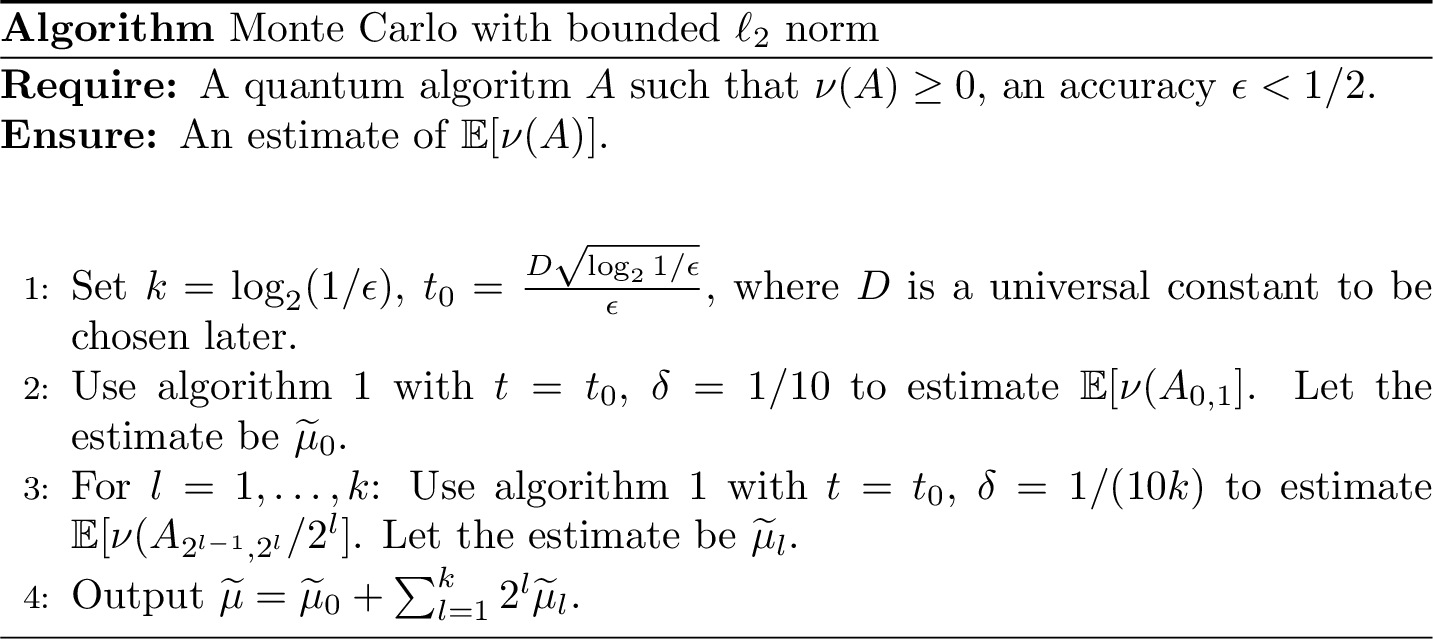
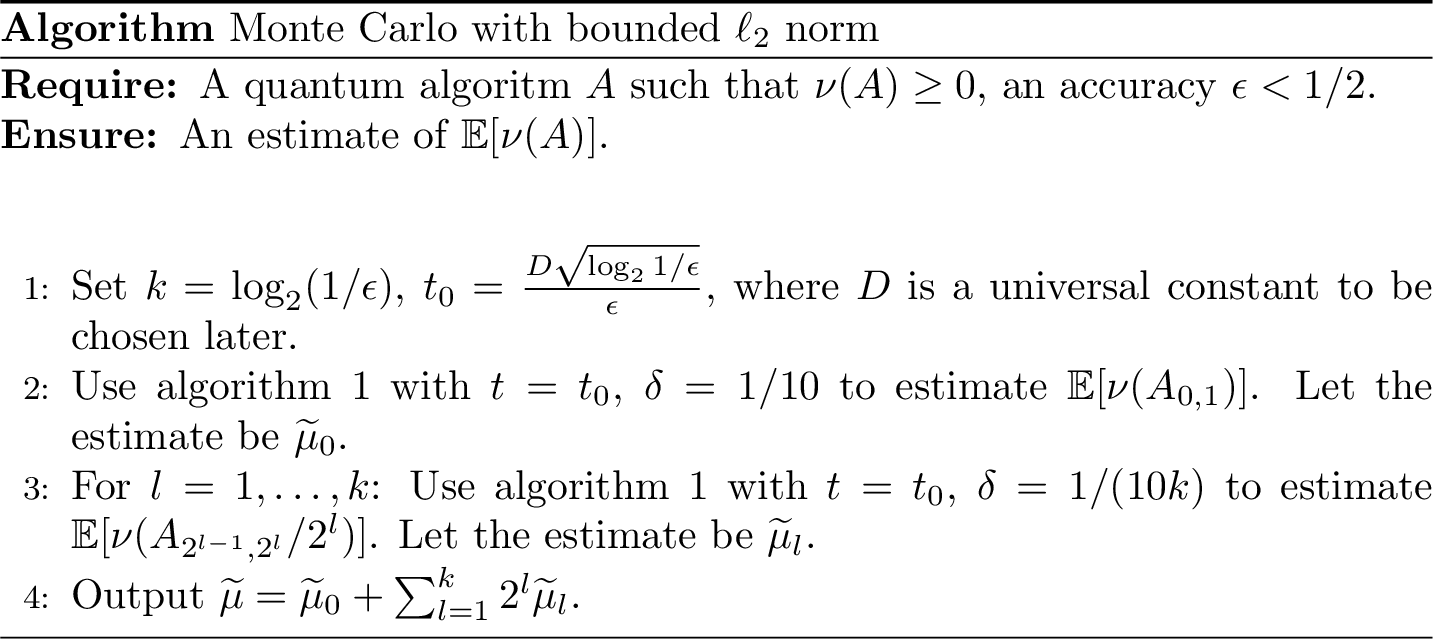
Correct missing parenthesis on montecarlo

Changed region(s): [[0.3992, 0.5649, 0.9518, 0.6541], [0.2149, 0.8028, 0.5834, 0.8623], [0.0921, 0.5649, 0.3685, 0.6244]]

diff --git a/algpseudocode/quantum-montecarlo-bounded-norm.tex b/algpseudocode/quantum-montecarlo-bounded-norm.tex
@@ -28,10 +28,10 @@
 
 		\State Set $k = \log_2(1/\epsilon)$, $t_0 =\frac{D\sqrt{\log_2{1/\epsilon}}}{\epsilon}$, where $D$ is a universal constant to be chosen later.
 
-		\State Use algorithm 1 with $t=t_0$, $\delta = 1/10$ to estimate $\mathbb{E}[\nu(A_{0,1}]$. Let the estimate be $\widetilde{\mu}_0$.
+		\State Use algorithm 1 with $t=t_0$, $\delta = 1/10$ to estimate $\mathbb{E}[\nu(A_{0,1})]$. Let the estimate be $\widetilde{\mu}_0$.
 
 		\State For $l = 1,\dots, k$:
-		 Use algorithm 1 with $t=t_0$, $\delta = 1/(10k)$ to estimate $\mathbb{E}[\nu(A_{2^{l-1},2^l}/2^l]$. Let the estimate be $\widetilde{\mu}_l$.
+		 Use algorithm 1 with $t=t_0$, $\delta = 1/(10k)$ to estimate $\mathbb{E}[\nu(A_{2^{l-1},2^l}/2^l)]$. Let the estimate be $\widetilde{\mu}_l$.
 
 		\State Output $\widetilde{\mu} = \widetilde{\mu}_0 + \sum_{l=1}^k 2^l \widetilde{\mu}_l$.
 
